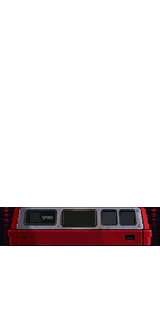
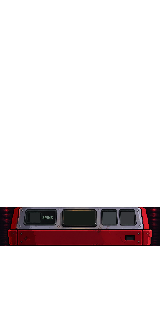
Preserve sharp pixels when extracting the preview shelf

diff --git a/godot/assets/images/machine_polished/README.md b/godot/assets/images/machine_polished/README.md
@@ -7,7 +7,8 @@ x33/65/97, y169..202. Live symbols and targeting remain runtime elements.
 `cabinet_controls.svg` supplies only the metal power rail at runtime. The lower
 shelf is `preview_shelf.png`, extracted directly from the approved preview, not
 redrawn. `tools/extract_preview_shelf.gd` reduces the archived source once to
-160x320, copies rows 199..237 to y207..245, and clears only the baked-in count,
+160x320 with nearest-neighbor sampling (no smoothing), copies rows 199..237 to
+y207..245, and clears only the baked-in count,
 item contents and independently animated cap. Bevels, slots, wear, red fascia
 and the static SPINS engraving retain the original pixels.
 The five `preview_spin_*.png` states use the original cap and lettering, with a

diff --git a/AGENTS.md b/AGENTS.md
@@ -514,7 +514,8 @@ Resources and currencies:
   launch from the CRT; coin pops and flights launch from the cash outlet at (80,298).
   The power rail and sloped lower shelf are composed into the cabinet material.
   The lower shelf is copied directly from the approved preview by
-  `tools/extract_preview_shelf.gd`, reduced once to native resolution. Its original
+  `tools/extract_preview_shelf.gd`, reduced once to native resolution with nearest
+  sampling so extraction cannot blur the pixel edges. Its original
   plate, corners, wells, wear and red fascia remain intact. The changing count and
   items are cleared; the original SPIN cap is extracted into five separate PNG
   states. Do not replace this artwork with procedural approximations.
